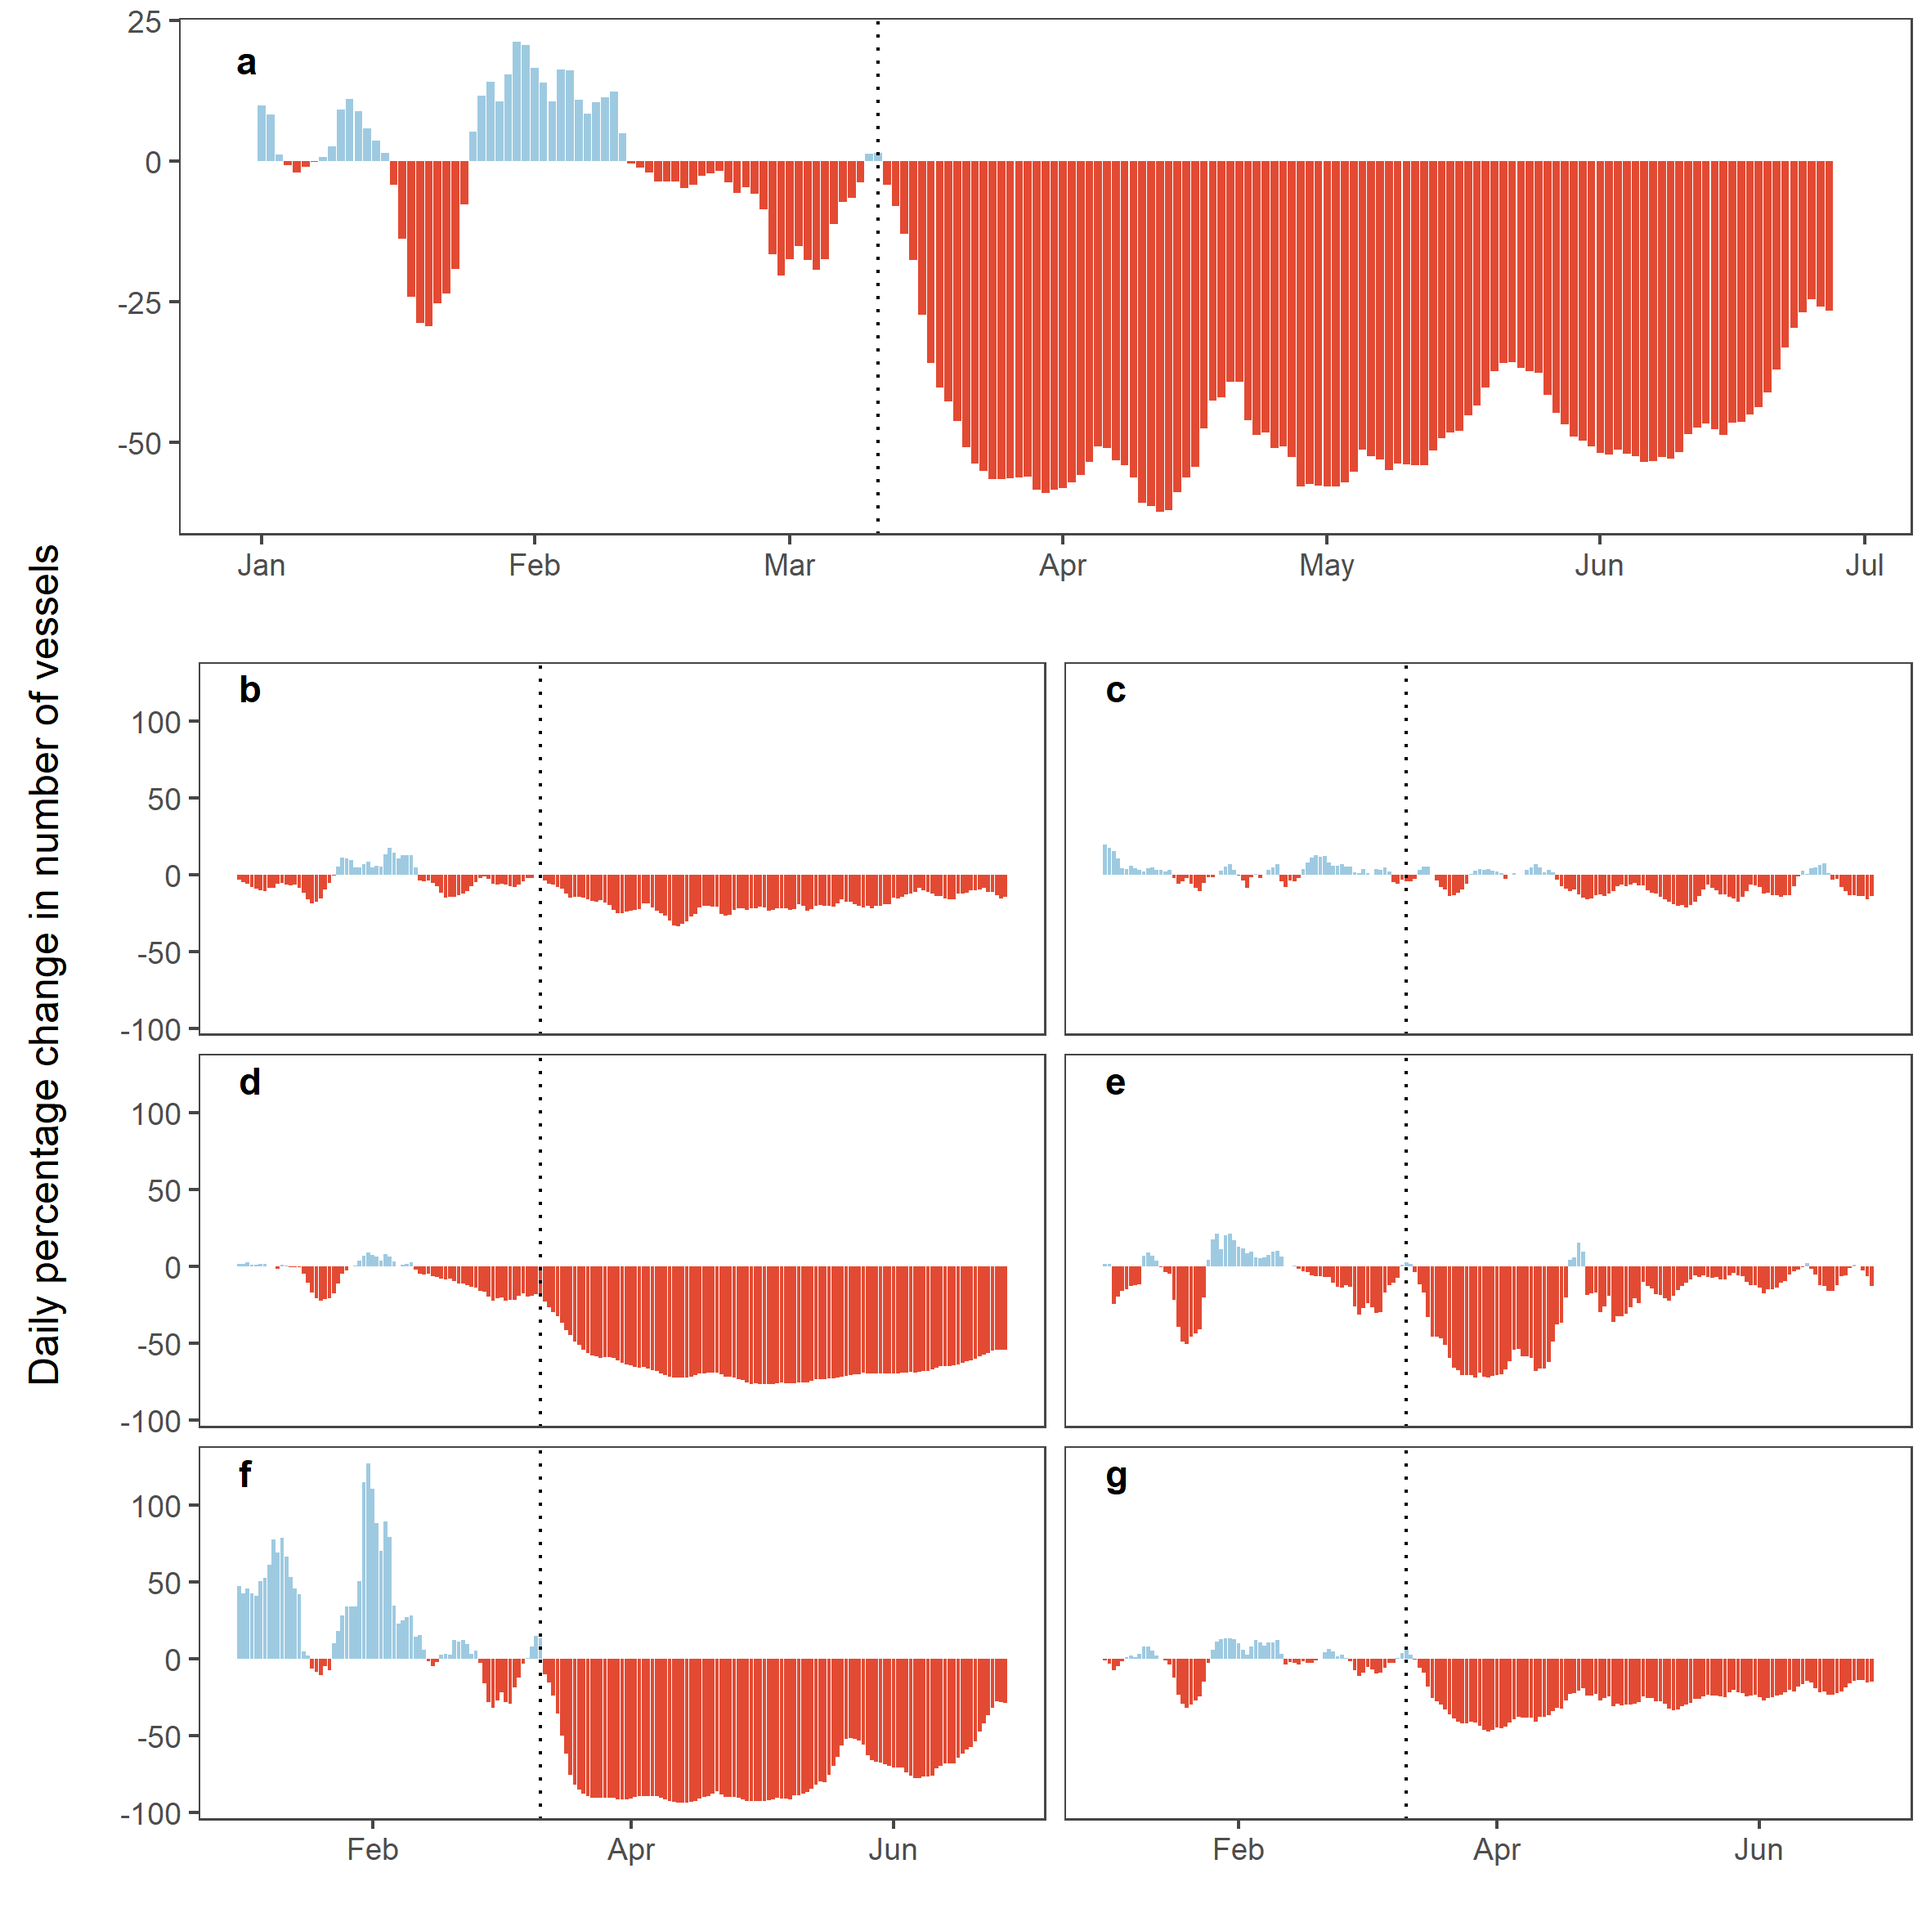
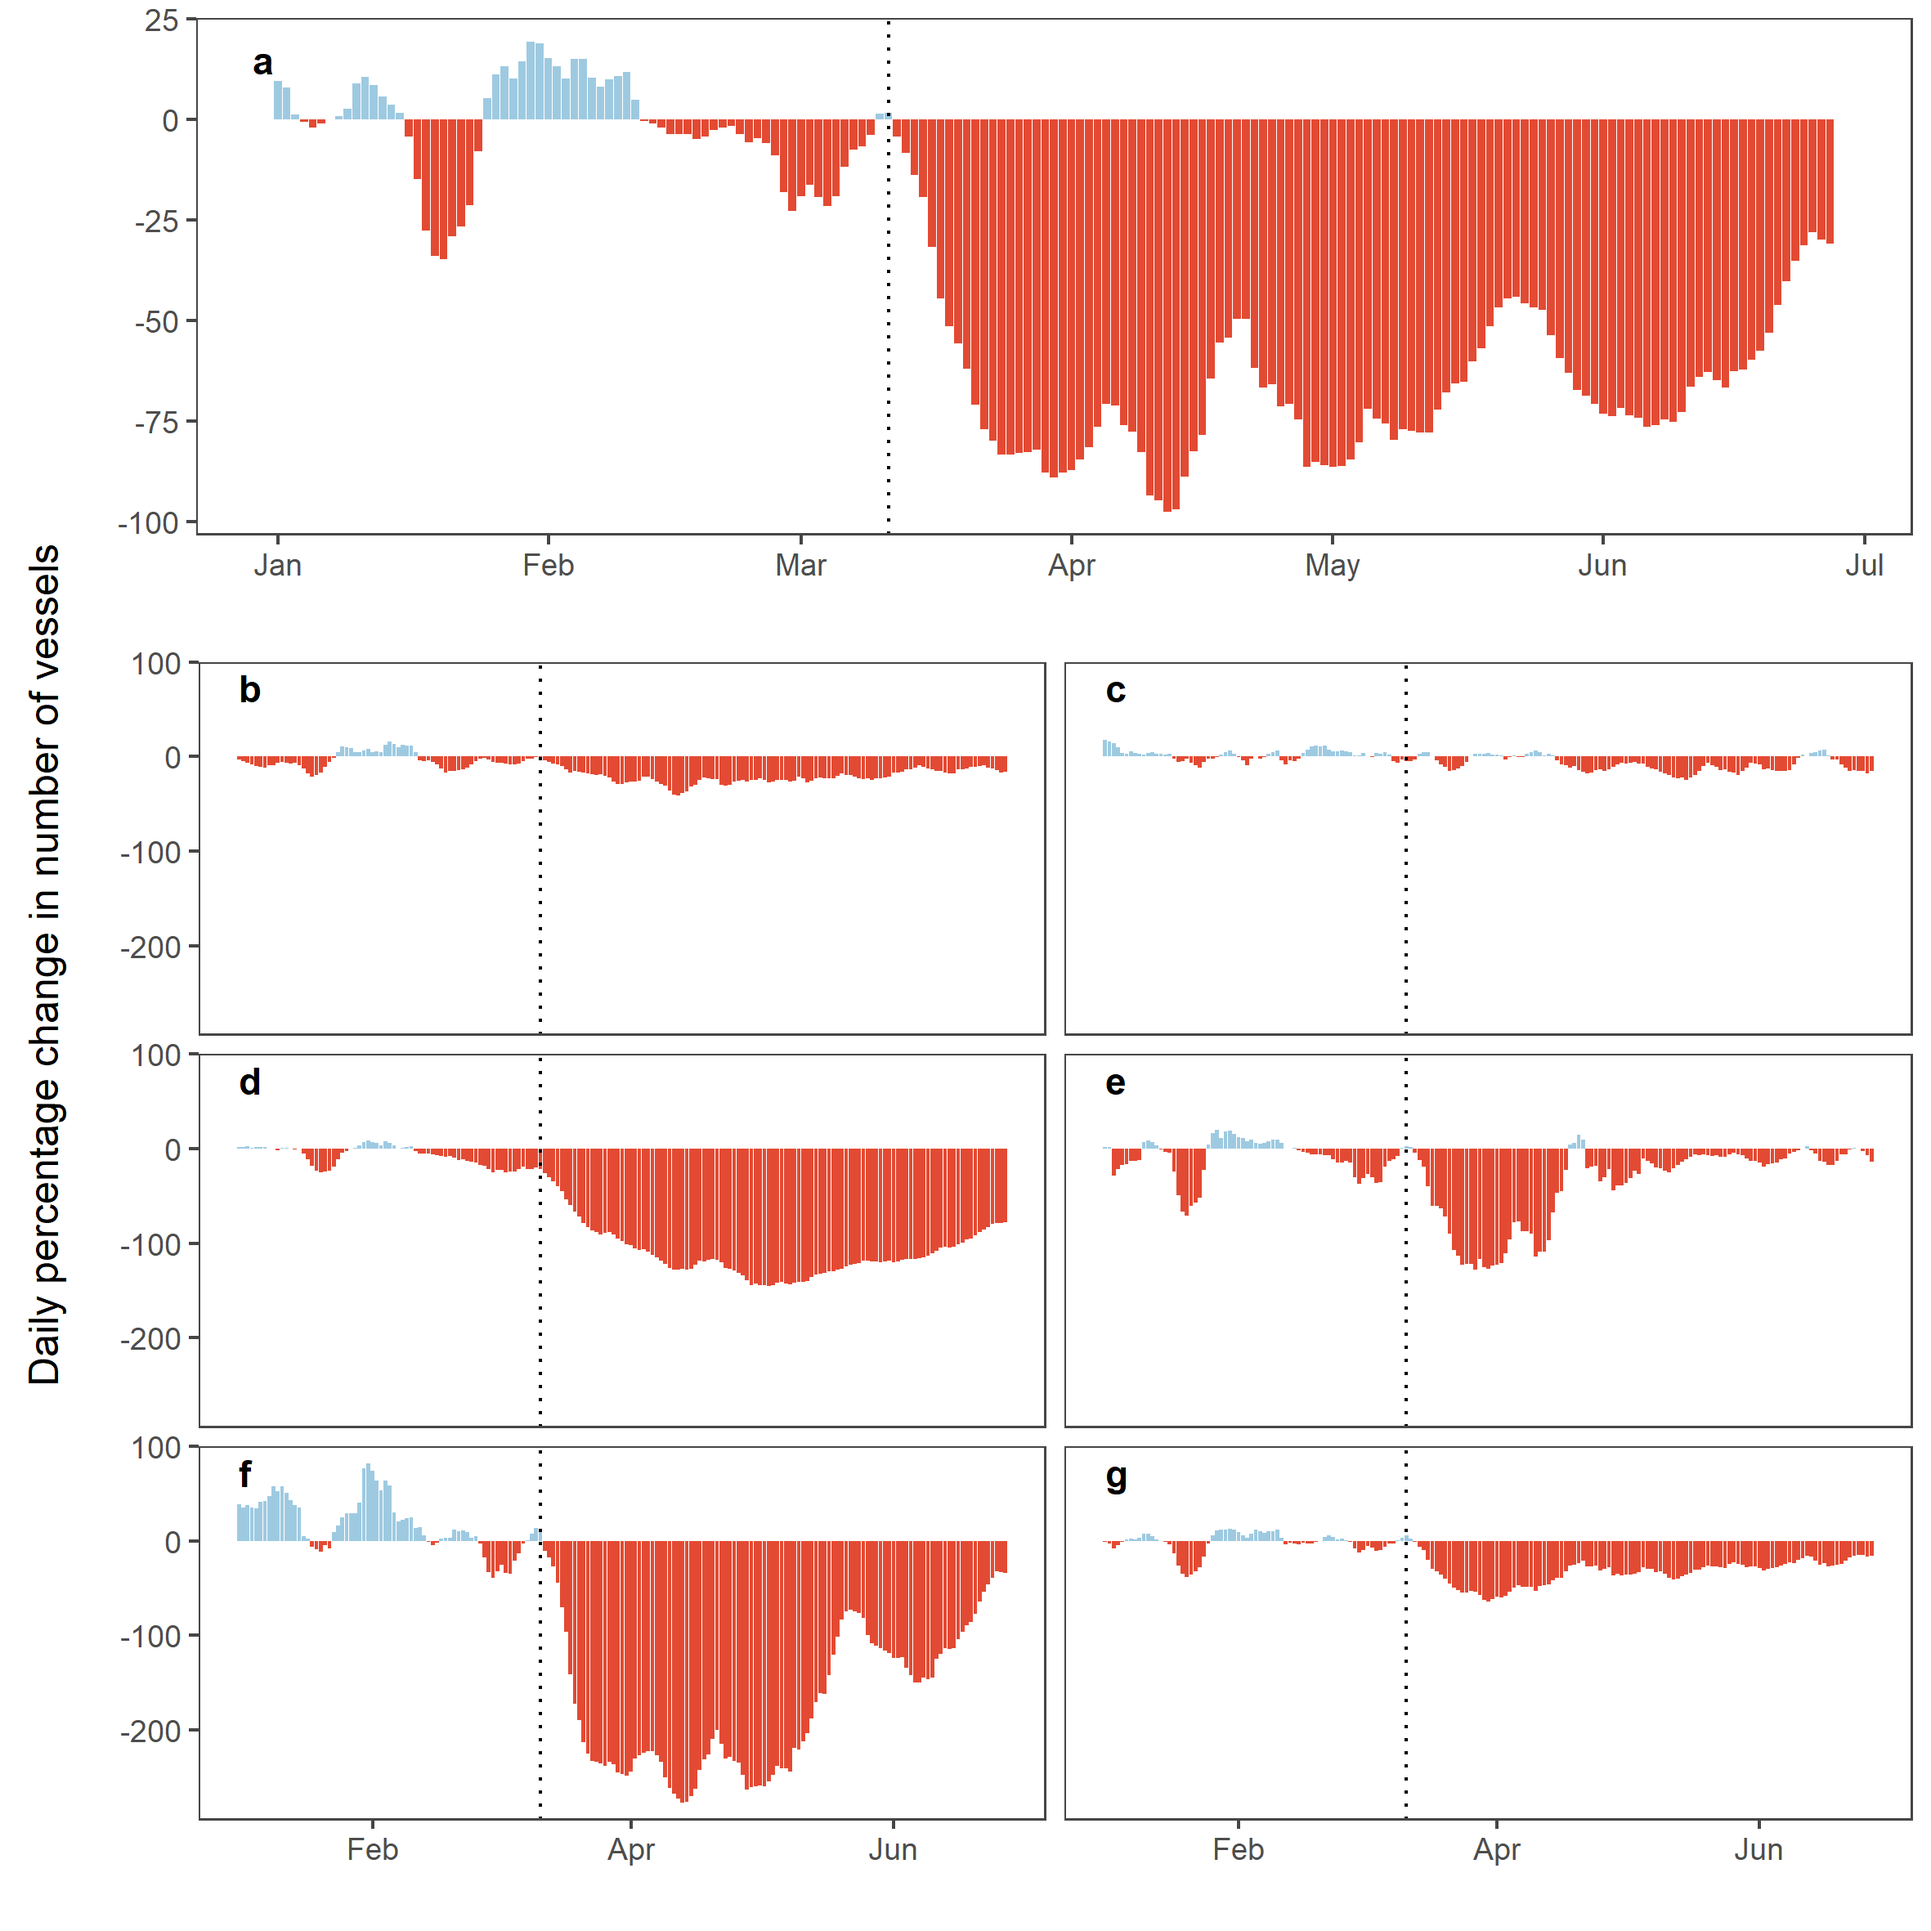
income and change to percentage log

diff --git a/README.md b/README.md
@@ -29,3 +29,4 @@ S-AIS             | `data/input/exacEarth/`       | S-AIS datasets from ExactEar
 FAO areas         | `data/input/FAO_AREAS/`       | FAO major fishing areas (http://www.fao.org/fishery/area/search/en)
 Marine ecoregions | `data/input/MEOW/`            | Marine ecoregions of the world (https://www.worldwildlife.org/publications/marine-ecoregions-of-the-world-a-bioregionalization-of-coastal-and-shelf-areas)
 High Seas         | `data/input/marine_regions/Intersect_EEZ_IHO_v4_2020` | Intersection between EEZ and IHO areas (https://www.marineregions.org/)
+Income class      | `data/input/worldbank`        | Income class per country by World Bank (https://datahelpdesk.worldbank.org/knowledgebase/articles/906519-world-bank-country-and-lending-groups)
